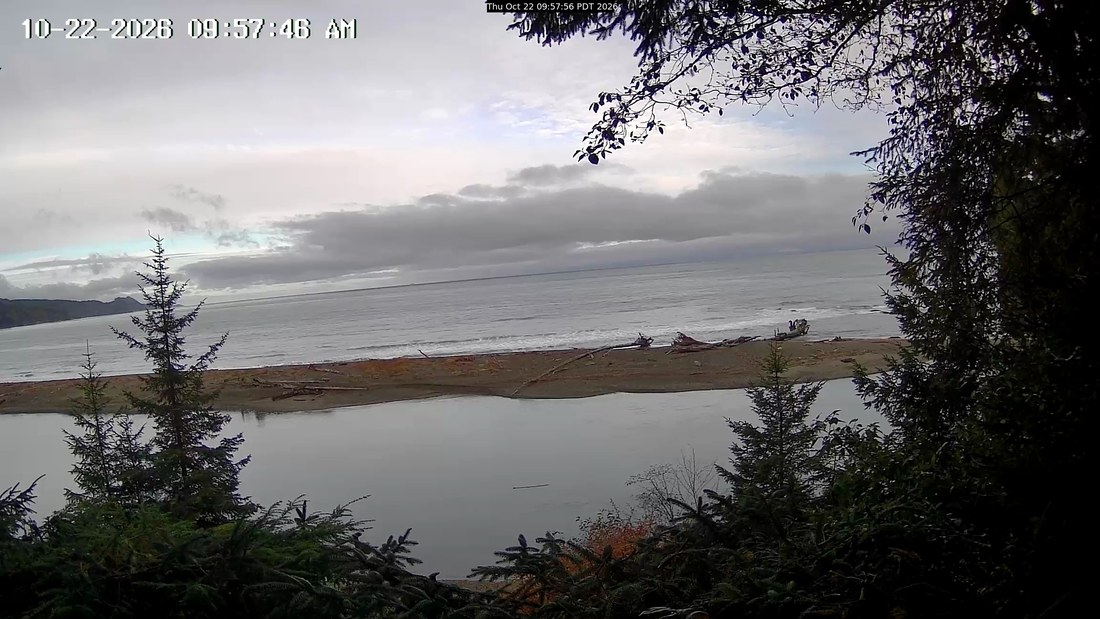
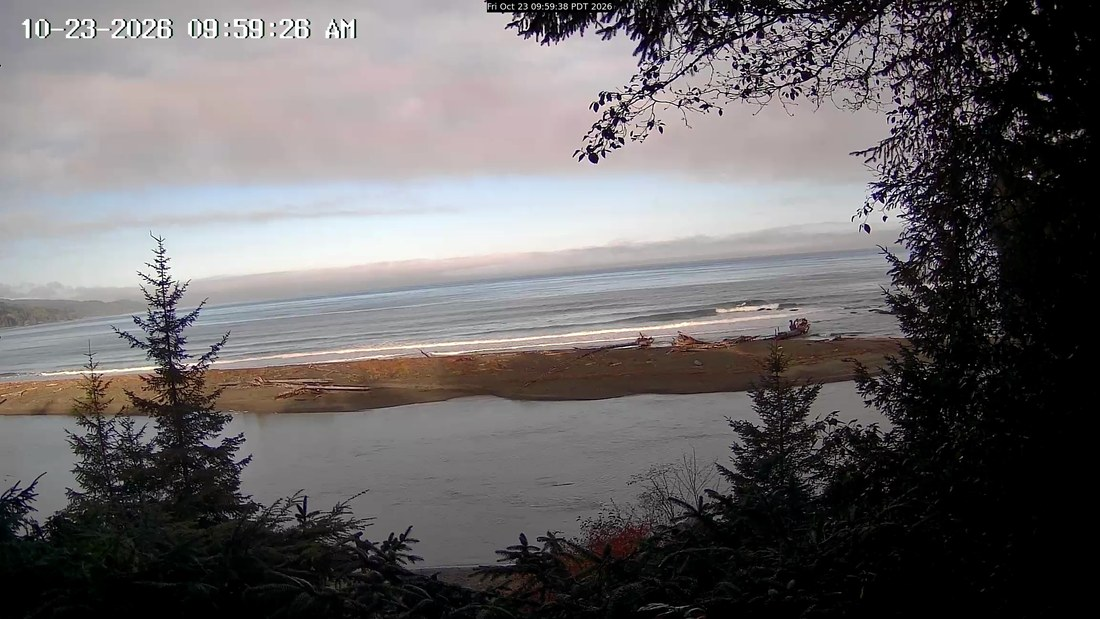
Cam capture 2026-10-23_1000

diff --git a/strait_cam.html b/strait_cam.html
@@ -1,1 +1,1 @@
-<!DOCTYPE html><html><head><meta charset='utf-8'><meta name='viewport' content='width=device-width, initial-scale=1'><title>The Strait cam</title><style>body{font-family:Georgia,serif;max-width:1200px;margin:0 auto;padding:24px}h1{margin:0 0 10px}.intro{color:#666;font-size:14px;margin:0 0 24px}.day-card{margin:0 0 30px}.day-card h3{margin:0 0 10px;font-size:22px}.time{color:#888;font-weight:400}.meta{color:#666;font-size:13px;font-weight:400}.frame-grid{display:grid;grid-template-columns:repeat(3,minmax(0,1fr));gap:10px}.frame-btn{background:#fff;border:1px solid #ddd;padding:0;cursor:pointer}.frame-img{display:block;width:100%;height:auto}.hint{font-size:12px;color:#666;margin-top:6px}.lightbox{position:fixed;inset:0;background:rgba(0,0,0,.92);display:none;align-items:center;justify-content:center;padding:20px;z-index:1000}.lightbox.open{display:flex}.lightbox img{max-width:100%;max-height:100%;object-fit:contain}.lightbox-close{position:absolute;top:14px;right:14px;font-size:28px;line-height:1;border:1px solid #fff;background:rgba(0,0,0,.35);color:#fff;padding:4px 12px;cursor:pointer}</style></head><body><h1>The Strait — cam review</h1><p class='intro'>Three morning frames per day (9/10/11am) from the Sekiu/Hoko cam — each is the most active of its ~5-min burst. Forward-only (no archive before we started). Click a thumbnail to expand.</p><section class='day-card'><h3>2026-10-23 <span class='meta'>Angeles Pt buoy 3.0ft @ 10s · verdict MAYBE</span></h3><div class='frame-grid'><figure style='margin:0'><button type='button' class='frame-btn'><img src='cam/2026-10-23_0900_strait.jpg' class='frame-img' data-full='cam/2026-10-23_0900_strait.jpg' alt='Strait (Sekiu/Hoko) 2026-10-23 09:00'></button><figcaption class='small' style='text-align:center;color:#888'>09:00</figcaption></figure></div><div class='hint'>Most-active frame from each ~5-min burst (we keep the one with the most whitewater, since the strait is flat between sets). Sekiu/Hoko cam, W entrance ~40mi W of the spot — a read on swell &amp; wind arriving, not the break. Click any frame to enlarge.</div></section><section class='day-card'><h3>2026-10-22 <span class='meta'>Angeles Pt buoy 3.3ft @ 11s · verdict GO</span></h3><div class='frame-grid'><figure style='margin:0'><button type='button' class='frame-btn'><img src='cam/2026-10-22_0900_strait.jpg' class='frame-img' data-full='cam/2026-10-22_0900_strait.jpg' alt='Strait (Sekiu/Hoko) 2026-10-22 09:00'></button><figcaption class='small' style='text-align:center;color:#888'>09:00</figcaption></figure><figure style='margin:0'><button type='button' class='frame-btn'><img src='cam/2026-10-22_1000_strait.jpg' class='frame-img' data-full='cam/2026-10-22_1000_strait.jpg' alt='Strait (Sekiu/Hoko) 2026-10-22 10:00'></button><figcaption class='small' style='text-align:center;color:#888'>10:00</figcaption></figure><figure style='margin:0'><button type='button' class='frame-btn'><img src='cam/2026-10-22_1100_strait.jpg' class='frame-img' data-full='cam/2026-10-22_1100_strait.jpg' alt='Strait (Sekiu/Hoko) 2026-10-22 11:00'></button><figcaption class='small' style='text-align:center;color:#888'>11:00</figcaption></figure></div><div class='hint'>Most-active frame from each ~5-min burst (we keep the one with the most whitewater, since the strait is flat between sets). Sekiu/Hoko cam, W entrance ~40mi W of the spot — a read on swell &amp; wind arriving, not the break. Click any frame to enlarge.</div></section><section class='day-card'><h3>2026-10-21 <span class='meta'>Angeles Pt buoy 1.3ft @ 8s · verdict SKIP</span></h3><div class='frame-grid'><figure style='margin:0'><button type='button' class='frame-btn'><img src='cam/2026-10-21_0900_strait.jpg' class='frame-img' data-full='cam/2026-10-21_0900_strait.jpg' alt='Strait (Sekiu/Hoko) 2026-10-21 09:00'></button><figcaption class='small' style='text-align:center;color:#888'>09:00</figcaption></figure><figure style='margin:0'><button type='button' class='frame-btn'><img src='cam/2026-10-21_1000_strait.jpg' class='frame-img' data-full='cam/2026-10-21_1000_strait.jpg' alt='Strait (Sekiu/Hoko) 2026-10-21 10:00'></button><figcaption class='small' style='text-align:center;color:#888'>10:00</figcaption></figure><figure style='margin:0'><button type='button' class='frame-btn'><img src='cam/2026-10-21_1100_strait.jpg' class='frame-img' data-full='cam/2026-10-21_1100_strait.jpg' alt='Strait (Sekiu/Hoko) 2026-10-21 11:00'></button><figcaption class='small' style='text-align:center;color:#888'>11:00</figcaption></figure></div><div class='hint'>Most-active frame from each ~5-min burst (we keep the one with the most whitewater, since the strait is flat between sets). Sekiu/Hoko cam, W entrance ~40mi W of the spot — a read on swell &amp; wind arriving, not the break. Click any frame to enlarge.</div></section><section class='day-card'><h3>2026-10-20 <span class='meta'>Angeles Pt buoy 1.6ft @ 10s · verdict SKIP</span></h3><div class='frame-grid'><figure style='margin:0'><button type='button' class='frame-btn'><img src='cam/2026-10-20_0900_strait.jpg' class='frame-img' data-full='cam/2026-10-20_0900_strait.jpg' alt='Strait (Sekiu/Hoko) 2026-10-20 09:00'></button><figcaption class='small' style='text-align:center;color:#888'>09:00</figcaption></figure><figure style='margin:0'><button type='button' class='frame-btn'><img src='cam/2026-10-20_1000_strait.jpg' class='frame-img' data-full='cam/2026-10-20_1000_strait.jpg' alt='Strait (Sekiu/Hoko) 2026-10-20 10:00'></button><figcaption class='small' style='text-align:center;color:#888'>10:00</figcaption></figure><figure style='margin:0'><button type='button' class='frame-btn'><img src='cam/2026-10-20_1100_strait.jpg' class='frame-img' data-full='cam/2026-10-20_1100_strait.jpg' alt='Strait (Sekiu/Hoko) 2026-10-20 11:00'></button><figcaption class='small' style='text-align:center;color:#888'>11:00</figcaption></figure></div><div class='hint'>Most-active frame from each ~5-min burst (we keep the one with the most whitewater, since the strait is flat between sets). Sekiu/Hoko cam, W entrance ~40mi W of the spot — a read on swell &amp; wind arriving, not the break. Click any frame to enlarge.</div></section><section class='day-card'><h3>2026-10-19 <span class='meta'>Angeles Pt buoy 2.3ft @ 11s · verdict GO</span></h3><div class='frame-grid'><figure style='margin:0'><button type='button' class='frame-btn'><img src='cam/2026-10-19_0900_strait.jpg' class='frame-img' data-full='cam/2026-10-19_0900_strait.jpg' alt='Strait (Sekiu/Hoko) 2026-10-19 09:00'></button><figcaption class='small' style='text-align:center;color:#888'>09:00</figcaption></figure><figure style='margin:0'><button type='button' class='frame-btn'><img src='cam/2026-10-19_1000_strait.jpg' class='frame-img' data-full='cam/2026-10-19_1000_strait.jpg' alt='Strait (Sekiu/Hoko) 2026-10-19 10:00'></button><figcaption class='small' style='text-align:center;color:#888'>10:00</figcaption></figure><figure style='margin:0'><button type='button' class='frame-btn'><img src='cam/2026-10-19_1100_strait.jpg' class='frame-img' data-full='cam/2026-10-19_1100_strait.jpg' alt='Strait (Sekiu/Hoko) 2026-10-19 11:00'></button><figcaption class='small' style='text-align:center;color:#888'>11:00</figcaption></figure></div><div class='hint'>Most-active frame from each ~5-min burst (we keep the one with the most whitewater, since the strait is flat between sets). Sekiu/Hoko cam, W entrance ~40mi W of the spot — a read on swell &amp; wind arriving, not the break. Click any frame to enlarge.</div></section><section class='day-card'><h3>2026-10-18 <span class='meta'>Angeles Pt buoy 2.6ft @ 9s · verdict GO</span></h3><div class='frame-grid'><figure style='margin:0'><button type='button' class='frame-btn'><img src='cam/2026-10-18_0900_strait.jpg' class='frame-img' data-full='cam/2026-10-18_0900_strait.jpg' alt='Strait (Sekiu/Hoko) 2026-10-18 09:00'></button><figcaption class='small' style='text-align:center;color:#888'>09:00</figcaption></figure><figure style='margin:0'><button type='button' class='frame-btn'><img src='cam/2026-10-18_1000_strait.jpg' class='frame-img' data-full='cam/2026-10-18_1000_strait.jpg' alt='Strait (Sekiu/Hoko) 2026-10-18 10:00'></button><figcaption class='small' style='text-align:center;color:#888'>10:00</figcaption></figure><figure style='margin:0'><button type='button' class='frame-btn'><img src='cam/2026-10-18_1100_strait.jpg' class='frame-img' data-full='cam/2026-10-18_1100_strait.jpg' alt='Strait (Sekiu/Hoko) 2026-10-18 11:00'></button><figcaption class='small' style='text-align:center;color:#888'>11:00</figcaption></figure></div><div class='hint'>Most-active frame from each ~5-min burst (we keep the one with the most whitewater, since the strait is flat between sets). Sekiu/Hoko cam, W entrance ~40mi W of the spot — a read on swell &amp; wind arriving, not the break. Click any frame to enlarge.</div></section><section class='day-card'><h3>2026-10-17 <span class='meta'>Angeles Pt buoy 3.0ft @ 4s · verdict GO</span></h3><div class='frame-grid'><figure style='margin:0'><button type='button' class='frame-btn'><img src='cam/2026-10-17_0900_strait.jpg' class='frame-img' data-full='cam/2026-10-17_0900_strait.jpg' alt='Strait (Sekiu/Hoko) 2026-10-17 09:00'></button><figcaption class='small' style='text-align:center;color:#888'>09:00</figcaption></figure><figure style='margin:0'><button type='button' class='frame-btn'><img src='cam/2026-10-17_1000_strait.jpg' class='frame-img' data-full='cam/2026-10-17_1000_strait.jpg' alt='Strait (Sekiu/Hoko) 2026-10-17 10:00'></button><figcaption class='small' style='text-align:center;color:#888'>10:00</figcaption></figure><figure style='margin:0'><button type='button' class='frame-btn'><img src='cam/2026-10-17_1100_strait.jpg' class='frame-img' data-full='cam/2026-10-17_1100_strait.jpg' alt='Strait (Sekiu/Hoko) 2026-10-17 11:00'></button><figcaption class='small' style='text-align:center;color:#888'>11:00</figcaption></figure></div><div class='hint'>Most-active frame from each ~5-min burst (we keep the one with the most whitewater, since the strait is flat between sets). Sekiu/Hoko cam, W entrance ~40mi W of the spot — a read on swell &amp; wind arriving, not the break. Click any frame to enlarge.</div></section><section class='day-card'><h3>2026-10-16 <span class='meta'>Angeles Pt buoy 0.7ft · verdict GO</span></h3><div class='frame-grid'><figure style='margin:0'><button type='button' class='frame-btn'><img src='cam/2026-10-16_0900_strait.jpg' class='frame-img' data-full='cam/2026-10-16_0900_strait.jpg' alt='Strait (Sekiu/Hoko) 2026-10-16 09:00'></button><figcaption class='small' style='text-align:center;color:#888'>09:00</figcaption></figure><figure style='margin:0'><button type='button' class='frame-btn'><img src='cam/2026-10-16_1000_strait.jpg' class='frame-img' data-full='cam/2026-10-16_1000_strait.jpg' alt='Strait (Sekiu/Hoko) 2026-10-16 10:00'></button><figcaption class='small' style='text-align:center;color:#888'>10:00</figcaption></figure><figure style='margin:0'><button type='button' class='frame-btn'><img src='cam/2026-10-16_1100_strait.jpg' class='frame-img' data-full='cam/2026-10-16_1100_strait.jpg' alt='Strait (Sekiu/Hoko) 2026-10-16 11:00'></button><figcaption class='small' style='text-align:center;color:#888'>11:00</figcaption></figure></div><div class='hint'>Most-active frame from each ~5-min burst (we keep the one with the most whitewater, since the strait is flat between sets). Sekiu/Hoko cam, W entrance ~40mi W of the spot — a read on swell &amp; wind arriving, not the break. Click any frame to enlarge.</div></section><div id='lightbox' class='lightbox' aria-hidden='true'><button id='lightbox-close' class='lightbox-close' aria-label='Close image view'>&times;</button><img id='lightbox-image' alt='Selected frame'></div><script>const lightbox=document.getElementById('lightbox');const lightboxImg=document.getElementById('lightbox-image');const closeBtn=document.getElementById('lightbox-close');document.querySelectorAll('.frame-img').forEach((img)=>{img.addEventListener('click',()=>{lightboxImg.src=img.dataset.full||img.src;lightbox.classList.add('open');lightbox.setAttribute('aria-hidden','false');});});function closeLightbox(){lightbox.classList.remove('open');lightbox.setAttribute('aria-hidden','true');lightboxImg.src='';}closeBtn.addEventListener('click',closeLightbox);lightbox.addEventListener('click',(e)=>{if(e.target===lightbox){closeLightbox();}});document.addEventListener('keydown',(e)=>{if(e.key==='Escape'&&lightbox.classList.contains('open')){closeLightbox();}});</script></body></html>
+<!DOCTYPE html><html><head><meta charset='utf-8'><meta name='viewport' content='width=device-width, initial-scale=1'><title>The Strait cam</title><style>body{font-family:Georgia,serif;max-width:1200px;margin:0 auto;padding:24px}h1{margin:0 0 10px}.intro{color:#666;font-size:14px;margin:0 0 24px}.day-card{margin:0 0 30px}.day-card h3{margin:0 0 10px;font-size:22px}.time{color:#888;font-weight:400}.meta{color:#666;font-size:13px;font-weight:400}.frame-grid{display:grid;grid-template-columns:repeat(3,minmax(0,1fr));gap:10px}.frame-btn{background:#fff;border:1px solid #ddd;padding:0;cursor:pointer}.frame-img{display:block;width:100%;height:auto}.hint{font-size:12px;color:#666;margin-top:6px}.lightbox{position:fixed;inset:0;background:rgba(0,0,0,.92);display:none;align-items:center;justify-content:center;padding:20px;z-index:1000}.lightbox.open{display:flex}.lightbox img{max-width:100%;max-height:100%;object-fit:contain}.lightbox-close{position:absolute;top:14px;right:14px;font-size:28px;line-height:1;border:1px solid #fff;background:rgba(0,0,0,.35);color:#fff;padding:4px 12px;cursor:pointer}</style></head><body><h1>The Strait — cam review</h1><p class='intro'>Three morning frames per day (9/10/11am) from the Sekiu/Hoko cam — each is the most active of its ~5-min burst. Forward-only (no archive before we started). Click a thumbnail to expand.</p><section class='day-card'><h3>2026-10-23 <span class='meta'>Angeles Pt buoy 3.3ft @ 9s · verdict MAYBE</span></h3><div class='frame-grid'><figure style='margin:0'><button type='button' class='frame-btn'><img src='cam/2026-10-23_0900_strait.jpg' class='frame-img' data-full='cam/2026-10-23_0900_strait.jpg' alt='Strait (Sekiu/Hoko) 2026-10-23 09:00'></button><figcaption class='small' style='text-align:center;color:#888'>09:00</figcaption></figure><figure style='margin:0'><button type='button' class='frame-btn'><img src='cam/2026-10-23_1000_strait.jpg' class='frame-img' data-full='cam/2026-10-23_1000_strait.jpg' alt='Strait (Sekiu/Hoko) 2026-10-23 10:00'></button><figcaption class='small' style='text-align:center;color:#888'>10:00</figcaption></figure></div><div class='hint'>Most-active frame from each ~5-min burst (we keep the one with the most whitewater, since the strait is flat between sets). Sekiu/Hoko cam, W entrance ~40mi W of the spot — a read on swell &amp; wind arriving, not the break. Click any frame to enlarge.</div></section><section class='day-card'><h3>2026-10-22 <span class='meta'>Angeles Pt buoy 3.3ft @ 11s · verdict GO</span></h3><div class='frame-grid'><figure style='margin:0'><button type='button' class='frame-btn'><img src='cam/2026-10-22_0900_strait.jpg' class='frame-img' data-full='cam/2026-10-22_0900_strait.jpg' alt='Strait (Sekiu/Hoko) 2026-10-22 09:00'></button><figcaption class='small' style='text-align:center;color:#888'>09:00</figcaption></figure><figure style='margin:0'><button type='button' class='frame-btn'><img src='cam/2026-10-22_1000_strait.jpg' class='frame-img' data-full='cam/2026-10-22_1000_strait.jpg' alt='Strait (Sekiu/Hoko) 2026-10-22 10:00'></button><figcaption class='small' style='text-align:center;color:#888'>10:00</figcaption></figure><figure style='margin:0'><button type='button' class='frame-btn'><img src='cam/2026-10-22_1100_strait.jpg' class='frame-img' data-full='cam/2026-10-22_1100_strait.jpg' alt='Strait (Sekiu/Hoko) 2026-10-22 11:00'></button><figcaption class='small' style='text-align:center;color:#888'>11:00</figcaption></figure></div><div class='hint'>Most-active frame from each ~5-min burst (we keep the one with the most whitewater, since the strait is flat between sets). Sekiu/Hoko cam, W entrance ~40mi W of the spot — a read on swell &amp; wind arriving, not the break. Click any frame to enlarge.</div></section><section class='day-card'><h3>2026-10-21 <span class='meta'>Angeles Pt buoy 1.3ft @ 8s · verdict SKIP</span></h3><div class='frame-grid'><figure style='margin:0'><button type='button' class='frame-btn'><img src='cam/2026-10-21_0900_strait.jpg' class='frame-img' data-full='cam/2026-10-21_0900_strait.jpg' alt='Strait (Sekiu/Hoko) 2026-10-21 09:00'></button><figcaption class='small' style='text-align:center;color:#888'>09:00</figcaption></figure><figure style='margin:0'><button type='button' class='frame-btn'><img src='cam/2026-10-21_1000_strait.jpg' class='frame-img' data-full='cam/2026-10-21_1000_strait.jpg' alt='Strait (Sekiu/Hoko) 2026-10-21 10:00'></button><figcaption class='small' style='text-align:center;color:#888'>10:00</figcaption></figure><figure style='margin:0'><button type='button' class='frame-btn'><img src='cam/2026-10-21_1100_strait.jpg' class='frame-img' data-full='cam/2026-10-21_1100_strait.jpg' alt='Strait (Sekiu/Hoko) 2026-10-21 11:00'></button><figcaption class='small' style='text-align:center;color:#888'>11:00</figcaption></figure></div><div class='hint'>Most-active frame from each ~5-min burst (we keep the one with the most whitewater, since the strait is flat between sets). Sekiu/Hoko cam, W entrance ~40mi W of the spot — a read on swell &amp; wind arriving, not the break. Click any frame to enlarge.</div></section><section class='day-card'><h3>2026-10-20 <span class='meta'>Angeles Pt buoy 1.6ft @ 10s · verdict SKIP</span></h3><div class='frame-grid'><figure style='margin:0'><button type='button' class='frame-btn'><img src='cam/2026-10-20_0900_strait.jpg' class='frame-img' data-full='cam/2026-10-20_0900_strait.jpg' alt='Strait (Sekiu/Hoko) 2026-10-20 09:00'></button><figcaption class='small' style='text-align:center;color:#888'>09:00</figcaption></figure><figure style='margin:0'><button type='button' class='frame-btn'><img src='cam/2026-10-20_1000_strait.jpg' class='frame-img' data-full='cam/2026-10-20_1000_strait.jpg' alt='Strait (Sekiu/Hoko) 2026-10-20 10:00'></button><figcaption class='small' style='text-align:center;color:#888'>10:00</figcaption></figure><figure style='margin:0'><button type='button' class='frame-btn'><img src='cam/2026-10-20_1100_strait.jpg' class='frame-img' data-full='cam/2026-10-20_1100_strait.jpg' alt='Strait (Sekiu/Hoko) 2026-10-20 11:00'></button><figcaption class='small' style='text-align:center;color:#888'>11:00</figcaption></figure></div><div class='hint'>Most-active frame from each ~5-min burst (we keep the one with the most whitewater, since the strait is flat between sets). Sekiu/Hoko cam, W entrance ~40mi W of the spot — a read on swell &amp; wind arriving, not the break. Click any frame to enlarge.</div></section><section class='day-card'><h3>2026-10-19 <span class='meta'>Angeles Pt buoy 2.3ft @ 11s · verdict GO</span></h3><div class='frame-grid'><figure style='margin:0'><button type='button' class='frame-btn'><img src='cam/2026-10-19_0900_strait.jpg' class='frame-img' data-full='cam/2026-10-19_0900_strait.jpg' alt='Strait (Sekiu/Hoko) 2026-10-19 09:00'></button><figcaption class='small' style='text-align:center;color:#888'>09:00</figcaption></figure><figure style='margin:0'><button type='button' class='frame-btn'><img src='cam/2026-10-19_1000_strait.jpg' class='frame-img' data-full='cam/2026-10-19_1000_strait.jpg' alt='Strait (Sekiu/Hoko) 2026-10-19 10:00'></button><figcaption class='small' style='text-align:center;color:#888'>10:00</figcaption></figure><figure style='margin:0'><button type='button' class='frame-btn'><img src='cam/2026-10-19_1100_strait.jpg' class='frame-img' data-full='cam/2026-10-19_1100_strait.jpg' alt='Strait (Sekiu/Hoko) 2026-10-19 11:00'></button><figcaption class='small' style='text-align:center;color:#888'>11:00</figcaption></figure></div><div class='hint'>Most-active frame from each ~5-min burst (we keep the one with the most whitewater, since the strait is flat between sets). Sekiu/Hoko cam, W entrance ~40mi W of the spot — a read on swell &amp; wind arriving, not the break. Click any frame to enlarge.</div></section><section class='day-card'><h3>2026-10-18 <span class='meta'>Angeles Pt buoy 2.6ft @ 9s · verdict GO</span></h3><div class='frame-grid'><figure style='margin:0'><button type='button' class='frame-btn'><img src='cam/2026-10-18_0900_strait.jpg' class='frame-img' data-full='cam/2026-10-18_0900_strait.jpg' alt='Strait (Sekiu/Hoko) 2026-10-18 09:00'></button><figcaption class='small' style='text-align:center;color:#888'>09:00</figcaption></figure><figure style='margin:0'><button type='button' class='frame-btn'><img src='cam/2026-10-18_1000_strait.jpg' class='frame-img' data-full='cam/2026-10-18_1000_strait.jpg' alt='Strait (Sekiu/Hoko) 2026-10-18 10:00'></button><figcaption class='small' style='text-align:center;color:#888'>10:00</figcaption></figure><figure style='margin:0'><button type='button' class='frame-btn'><img src='cam/2026-10-18_1100_strait.jpg' class='frame-img' data-full='cam/2026-10-18_1100_strait.jpg' alt='Strait (Sekiu/Hoko) 2026-10-18 11:00'></button><figcaption class='small' style='text-align:center;color:#888'>11:00</figcaption></figure></div><div class='hint'>Most-active frame from each ~5-min burst (we keep the one with the most whitewater, since the strait is flat between sets). Sekiu/Hoko cam, W entrance ~40mi W of the spot — a read on swell &amp; wind arriving, not the break. Click any frame to enlarge.</div></section><section class='day-card'><h3>2026-10-17 <span class='meta'>Angeles Pt buoy 3.0ft @ 4s · verdict GO</span></h3><div class='frame-grid'><figure style='margin:0'><button type='button' class='frame-btn'><img src='cam/2026-10-17_0900_strait.jpg' class='frame-img' data-full='cam/2026-10-17_0900_strait.jpg' alt='Strait (Sekiu/Hoko) 2026-10-17 09:00'></button><figcaption class='small' style='text-align:center;color:#888'>09:00</figcaption></figure><figure style='margin:0'><button type='button' class='frame-btn'><img src='cam/2026-10-17_1000_strait.jpg' class='frame-img' data-full='cam/2026-10-17_1000_strait.jpg' alt='Strait (Sekiu/Hoko) 2026-10-17 10:00'></button><figcaption class='small' style='text-align:center;color:#888'>10:00</figcaption></figure><figure style='margin:0'><button type='button' class='frame-btn'><img src='cam/2026-10-17_1100_strait.jpg' class='frame-img' data-full='cam/2026-10-17_1100_strait.jpg' alt='Strait (Sekiu/Hoko) 2026-10-17 11:00'></button><figcaption class='small' style='text-align:center;color:#888'>11:00</figcaption></figure></div><div class='hint'>Most-active frame from each ~5-min burst (we keep the one with the most whitewater, since the strait is flat between sets). Sekiu/Hoko cam, W entrance ~40mi W of the spot — a read on swell &amp; wind arriving, not the break. Click any frame to enlarge.</div></section><section class='day-card'><h3>2026-10-16 <span class='meta'>Angeles Pt buoy 0.7ft · verdict GO</span></h3><div class='frame-grid'><figure style='margin:0'><button type='button' class='frame-btn'><img src='cam/2026-10-16_0900_strait.jpg' class='frame-img' data-full='cam/2026-10-16_0900_strait.jpg' alt='Strait (Sekiu/Hoko) 2026-10-16 09:00'></button><figcaption class='small' style='text-align:center;color:#888'>09:00</figcaption></figure><figure style='margin:0'><button type='button' class='frame-btn'><img src='cam/2026-10-16_1000_strait.jpg' class='frame-img' data-full='cam/2026-10-16_1000_strait.jpg' alt='Strait (Sekiu/Hoko) 2026-10-16 10:00'></button><figcaption class='small' style='text-align:center;color:#888'>10:00</figcaption></figure><figure style='margin:0'><button type='button' class='frame-btn'><img src='cam/2026-10-16_1100_strait.jpg' class='frame-img' data-full='cam/2026-10-16_1100_strait.jpg' alt='Strait (Sekiu/Hoko) 2026-10-16 11:00'></button><figcaption class='small' style='text-align:center;color:#888'>11:00</figcaption></figure></div><div class='hint'>Most-active frame from each ~5-min burst (we keep the one with the most whitewater, since the strait is flat between sets). Sekiu/Hoko cam, W entrance ~40mi W of the spot — a read on swell &amp; wind arriving, not the break. Click any frame to enlarge.</div></section><div id='lightbox' class='lightbox' aria-hidden='true'><button id='lightbox-close' class='lightbox-close' aria-label='Close image view'>&times;</button><img id='lightbox-image' alt='Selected frame'></div><script>const lightbox=document.getElementById('lightbox');const lightboxImg=document.getElementById('lightbox-image');const closeBtn=document.getElementById('lightbox-close');document.querySelectorAll('.frame-img').forEach((img)=>{img.addEventListener('click',()=>{lightboxImg.src=img.dataset.full||img.src;lightbox.classList.add('open');lightbox.setAttribute('aria-hidden','false');});});function closeLightbox(){lightbox.classList.remove('open');lightbox.setAttribute('aria-hidden','true');lightboxImg.src='';}closeBtn.addEventListener('click',closeLightbox);lightbox.addEventListener('click',(e)=>{if(e.target===lightbox){closeLightbox();}});document.addEventListener('keydown',(e)=>{if(e.key==='Escape'&&lightbox.classList.contains('open')){closeLightbox();}});</script></body></html>
